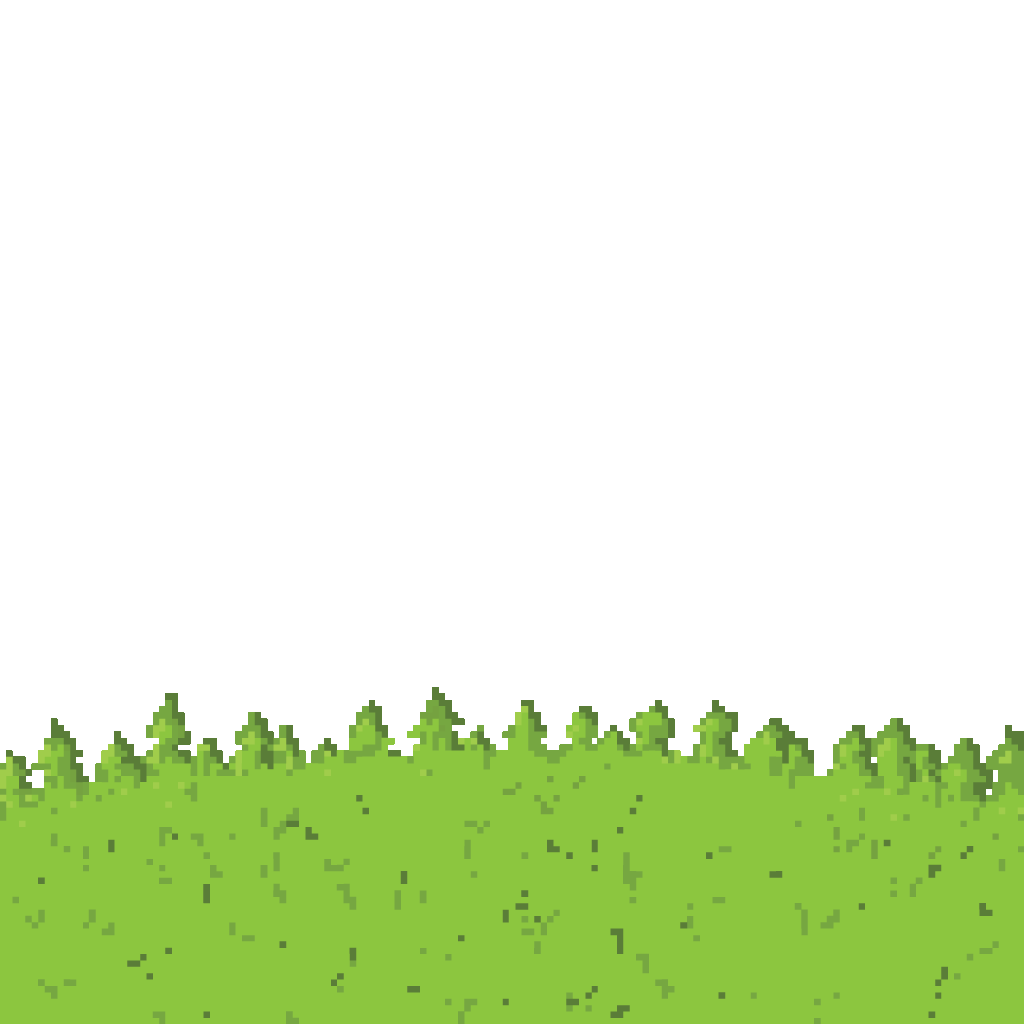
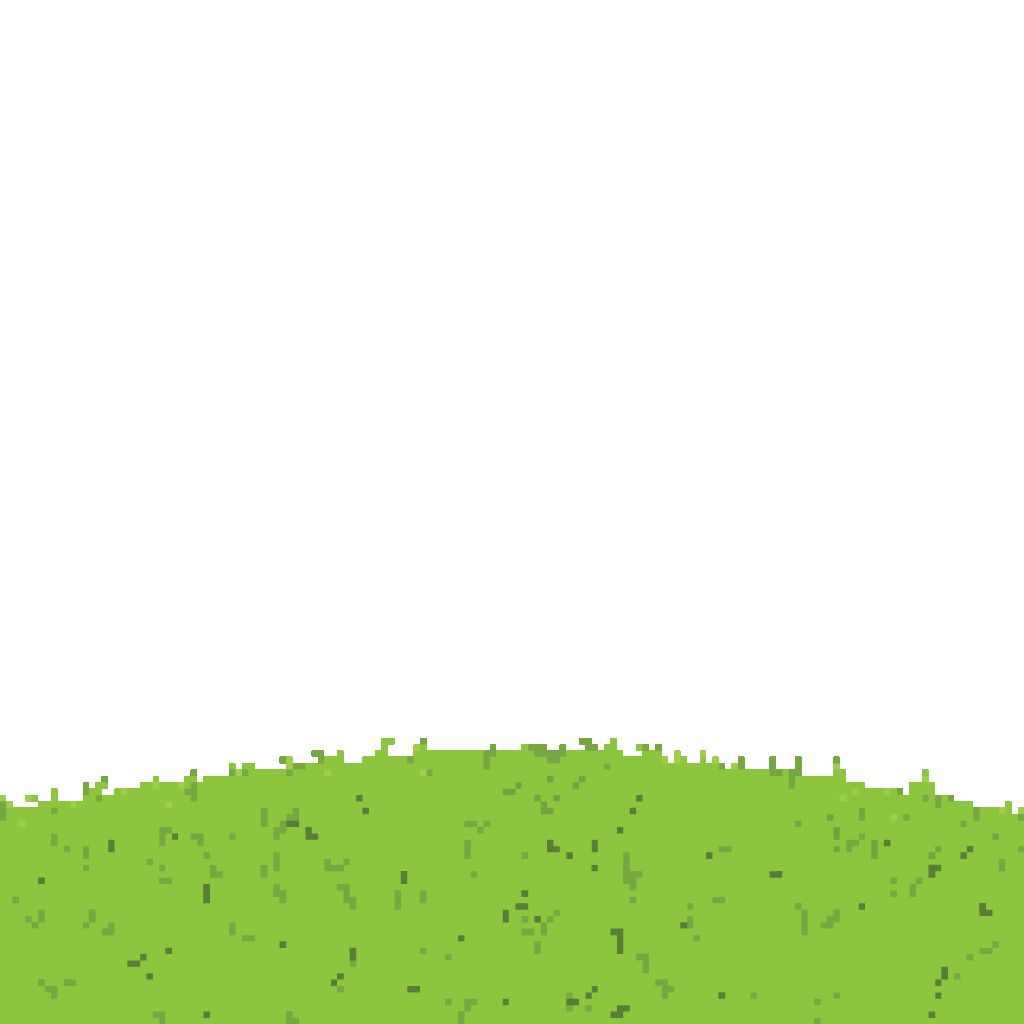
updated assets

Changed region(s): [[0.0, 0.6562, 1.0, 0.8125]]

diff --git a/CodeQuest/public_html/src/MyGame/Scenes/AsteroidScene.js b/CodeQuest/public_html/src/MyGame/Scenes/AsteroidScene.js
@@ -26,14 +26,14 @@ function AsteroidScene() {
     this.helpTable = "assets/AsteroidHelp.PNG";
     
     // new assets
-    this.mGrass = "assets/MeteorGame/grass.png";
-    this.mMountain = "assets/MeteorGame/mountain.png";
+    this.mGrass = "assets/MeteorGame/grassyellow.png";
+    this.mMountain = "assets/MeteorGame/mountainyellow.png";
     this.mBg1 = "assets/MeteorGame/sunset.png";
     this.mBg2 = "assets/MeteorGame/sunnyday.png";
     this.mCloud = "assets/MeteorGame/clouds.png";
     this.mCannonSprite = "assets/MeteorGame/cannon.png";
     
-    this.mCannonBase = "assets/MeteorGame/cannonbase.png";
+    this.mCannonBase = "assets/MeteorGame/cannonbaseyellow.png";
     this.mCannonMuzzle = "assets/MeteorGame/cannonmuzzle.png";
     this.mMeteorSprite = "assets/MeteorGame/meteorexplosion.png";
     
@@ -198,7 +198,7 @@ AsteroidScene.prototype.initialize = function () {
     );
     this.mCamera.setBackgroundColor([0.8, 0.8, 0.8, 1]);
             // sets the background to gray
-    gEngine.DefaultResources.setGlobalAmbientIntensity(3);
+    gEngine.DefaultResources.setGlobalAmbientIntensity(2.6);
           
     //object Set
     this.mAllObjs = new GameObjectSet();   
@@ -210,11 +210,11 @@ AsteroidScene.prototype.initialize = function () {
     this.background.getXform().setSize(this.WCWidth, this.WCHeight);
     this.mAllObjs.addToSet(this.background);
     
-    this.mountain = new TextureRenderable(this.mMountain);
-    this.mountain.getXform().setPosition(0, 0);
-    this.mountain.getXform().setRotationInDegree(0); // In Degree
-    this.mountain.getXform().setSize(this.WCWidth, this.WCHeight);
-    this.mAllObjs.addToSet(this.mountain);
+    this.mountainyellow = new TextureRenderable(this.mMountain);
+    this.mountainyellow.getXform().setPosition(0, 0);
+    this.mountainyellow.getXform().setRotationInDegree(0); // In Degree
+    this.mountainyellow.getXform().setSize(this.WCWidth, this.WCHeight);
+    this.mAllObjs.addToSet(this.mountainyellow);
     
     //configure ground (currently a solid color green)
     // in the future it should be a texture renderable
